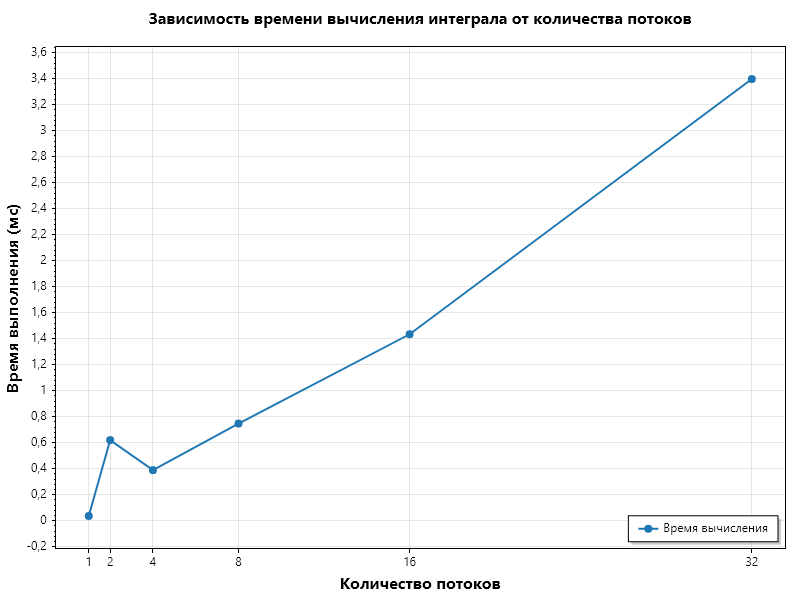
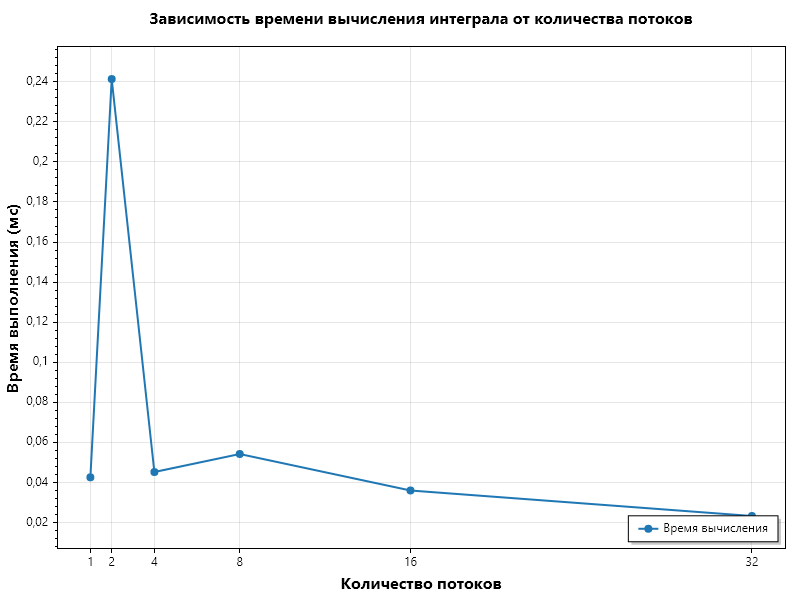
функция интегрирования оптимизирована. написан текстовый файл.

diff --git a/task14/Class1.cs b/task14/Class1.cs
@@ -7,62 +7,48 @@ public static double Solve(double a, double b, Func<double, double> function, do
 {
     if (threadsNumber <= 0) throw new ArgumentException("Число потоков должно быть положительным");
     if (step <= 0) throw new ArgumentException("Шаг должен быть положительным");
-    if (b < a) throw new ArgumentException("b должно быть больше a");
+    if (b < a) throw new ArgumentException("b Должно быть больше a");
 
-    // Оптимизация для однопоточного случая
-    if (threadsNumber == 1)
-    {
-        return CalculatePartialIntegral(a, b, function, step);
-    }
-
+    
+    int actualThreads = Math.Min(threadsNumber, Environment.ProcessorCount);
     double totalLength = b - a;
-    double segmentLength = totalLength / threadsNumber;
     double result = 0.0;
-    var threads = new Thread[threadsNumber];
-    var partialResults = new double[threadsNumber];
 
-    using (var countdown = new CountdownEvent(threadsNumber))
+    
+    Parallel.For(0, actualThreads, new ParallelOptions { MaxDegreeOfParallelism = actualThreads }, i =>
     {
-        for (int i = 0; i < threadsNumber; i++)
-        {
-            int threadIndex = i; // Захватываем локальную переменную для потока
-            double start = a + threadIndex * segmentLength;
-            double end = (threadIndex == threadsNumber - 1) ? b : start + segmentLength;
-
-            threads[threadIndex] = new Thread(() =>
-            {
-                partialResults[threadIndex] = CalculatePartialIntegral(start, end, function, step);
-                countdown.Signal();
-            });
-
-            threads[threadIndex].Start();
-        }
-
-        countdown.Wait(); // Ждем завершения всех потоков
-        result = partialResults.Sum();
-    }
+        
+        double start = a + i * totalLength / actualThreads;
+        double end = a + (i + 1) * totalLength / actualThreads;
+        
+        double partialResult = CalculatePartialIntegral(start, end, function, step);
+        
+        
+        Interlocked.Exchange(ref result, result + partialResult);
+    });
 
     return result;
 }
 
-    private static double CalculatePartialIntegral(double a, double b, Func<double, double> function, double step)
+
+private static double CalculatePartialIntegral(double a, double b, Func<double, double> function, double step)
+{
+    double integral = 0.0;
+    double x = a;
+    double stepSize = step;
+    
+    while (x < b)
     {
-        double integral = 0.0;
-        double x = a;
-        double nextX = x + step;
-
-        while (x < b)
-        {
-            if (nextX > b) nextX = b;
-            double y1 = function(x);
-            double y2 = function(nextX);
-            integral += (y1 + y2) * (nextX - x) / 2;
-            x = nextX;
-            nextX += step;
-        }
-
-        return integral;
+        double nextX = Math.Min(x + stepSize, b);
+        double y1 = function(x);
+        double y2 = function(nextX);
+        integral += (y1 + y2) * (nextX - x) * 0.5;
+        x = nextX;
     }
+
+    return integral;
+}
+
     public static double SingleThreadSolve(double a, double b, Func<double, double> function, double step)
     {
         if (step <= 0) throw new ArgumentException("Шаг должен быть положительным");
